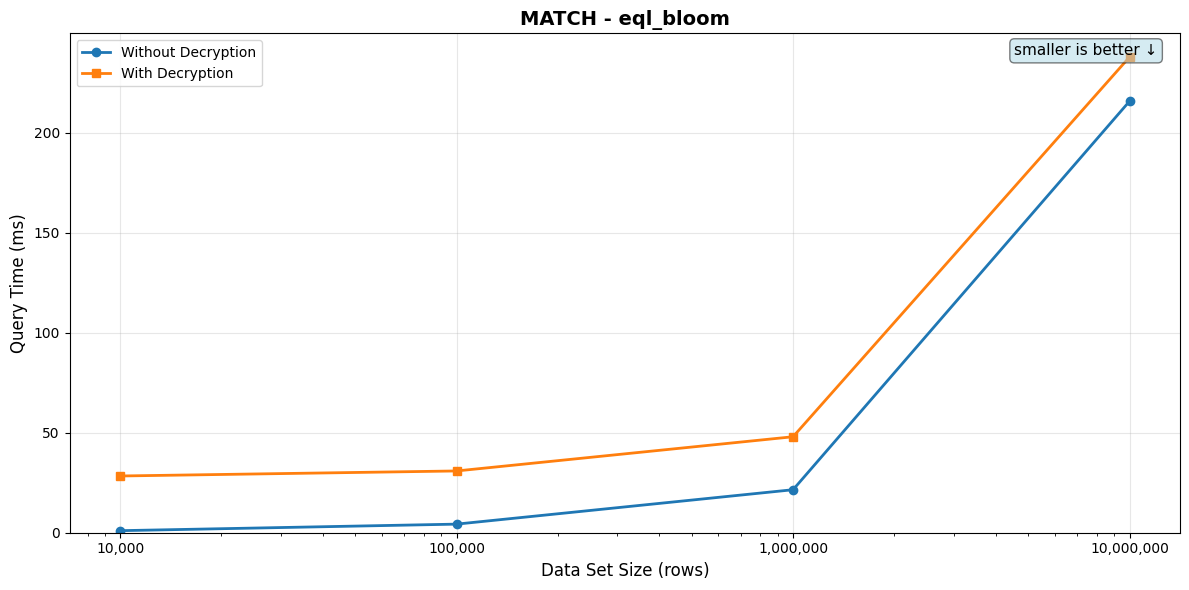
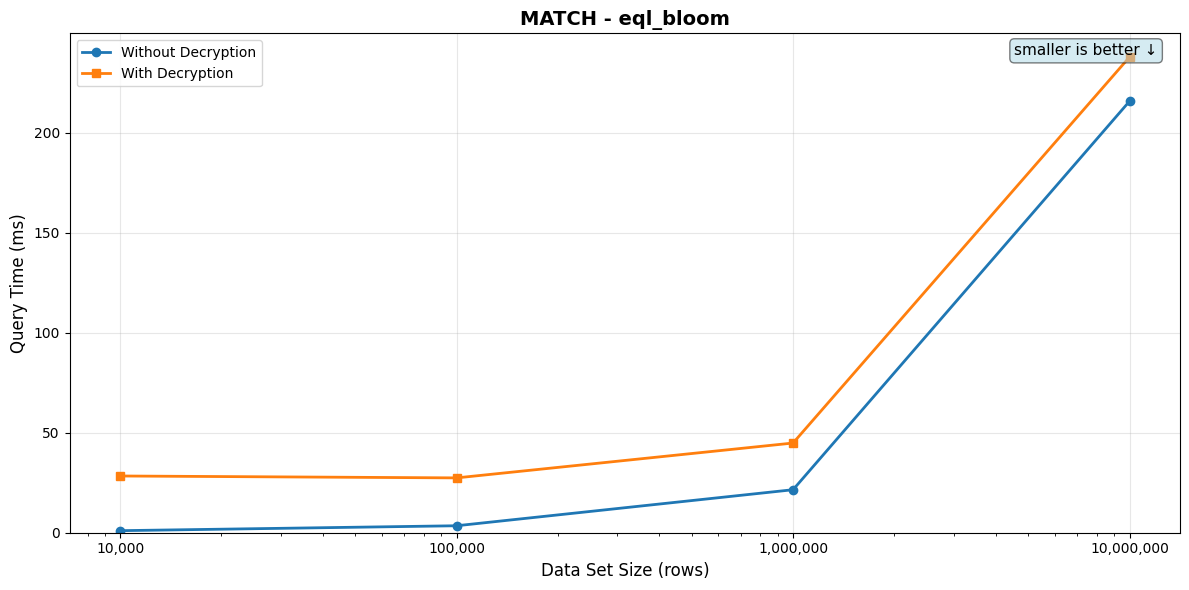
results: refresh MATCH 100k + 1M after verification re-run
Two consecutive runs confirmed the modest ~1.2x slowness on bloom-form
MATCH scenarios (`eql_bloom`, `eql_cast_lastname`) at both 100k and 1M.
`eql_cast_firstname` (short substring, few trigrams) is unaffected.

Pattern fits a cipherstash-client version difference — the bench is
currently pinned to the suite-main branch carrying the
error-visibility fixes (PR #1960) vs main's crates.io 0.34.1-alpha.4.
Should disappear when the fix lands in a published release and we
revert to a crates.io pin.

Refreshed `report/match.md` + the three match chart PNGs against the
post-rerun numbers. Other report sections unchanged (no source data
moved).

diff --git a/report/match.md b/report/match.md
@@ -44,8 +44,8 @@ ON string_encrypted_10000 USING GIN (
 | Data Set Size | Rows Returned | Query Time (no decrypt) | Query Time (with decrypt) |
 |---------------|---------------|-------------------------|---------------------------|
 | 10,000 | 10 | 1.02ms | 28.36ms |
-| 100,000 | 10 | 4.30ms | 30.88ms |
-| 1,000,000 | 10 | 21.50ms | 47.99ms |
+| 100,000 | 10 | 3.48ms | 27.41ms |
+| 1,000,000 | 10 | 21.50ms | 44.84ms |
 | 10,000,000 | 10 | ⚠ 215.72ms | ⚠ 237.82ms |
 
 _Rows Returned is the actual count from a one-shot pre-bench execution. For LIMIT-bounded queries it matches the LIMIT (or is lower when the table doesn't have enough matching rows); for aggregates wrapped in `count(*)` it's 1._
@@ -139,7 +139,7 @@ Full `EXPLAIN (FORMAT JSON)`:
           "Plans": [
             {
               "Async Capable": false,
-              "Index Cond": "((eql_v2.bloom_filter(value))::smallint[] @> '{820,835,702,523,1061,518,290,242,1846,1659,1185,97,1609,1987,1988,450,1098,1381,1967,513,461,1665,543,44,1196,574,765,237,2024,1715}'::smallint[])",
+              "Index Cond": "((eql_v2.bloom_filter(value))::smallint[] @> '{461,518,1659,1988,1098,44,765,574,513,2024,290,450,702,543,1967,1196,1381,1715,1185,97,237,1609,1061,1846,1665,242,820,835,1987,523}'::smallint[])",
               "Index Name": "string_encrypted_100000_gin_index",
               "Node Type": "Bitmap Index Scan",
               "Parallel Aware": false,
@@ -150,7 +150,7 @@ Full `EXPLAIN (FORMAT JSON)`:
               "Total Cost": 458.47
             }
           ],
-          "Recheck Cond": "((eql_v2.bloom_filter(value))::smallint[] @> '{820,835,702,523,1061,518,290,242,1846,1659,1185,97,1609,1987,1988,450,1098,1381,1967,513,461,1665,543,44,1196,574,765,237,2024,1715}'::smallint[])",
+          "Recheck Cond": "((eql_v2.bloom_filter(value))::smallint[] @> '{461,518,1659,1988,1098,44,765,574,513,2024,290,450,702,543,1967,1196,1381,1715,1185,97,237,1609,1061,1846,1665,242,820,835,1987,523}'::smallint[])",
           "Relation Name": "string_encrypted_100000",
           "Startup Cost": 458.48,
           "Total Cost": 462.99
@@ -194,7 +194,7 @@ Full `EXPLAIN (FORMAT JSON)`:
           "Plans": [
             {
               "Async Capable": false,
-              "Index Cond": "((eql_v2.bloom_filter(value))::smallint[] @> '{523,1987,518,1061,450,1715,1846,1659,1609,44,1381,574,97,242,702,290,1967,237,1185,1988,543,1196,765,461,2024,820,513,1098,1665,835}'::smallint[])",
+              "Index Cond": "((eql_v2.bloom_filter(value))::smallint[] @> '{1196,1967,1988,702,2024,1665,1185,290,835,765,461,523,1987,1715,1659,543,518,820,574,1098,450,242,1061,237,1609,97,513,1381,44,1846}'::smallint[])",
               "Index Name": "string_encrypted_1000000_gin_index",
               "Node Type": "Bitmap Index Scan",
               "Parallel Aware": false,
@@ -205,7 +205,7 @@ Full `EXPLAIN (FORMAT JSON)`:
               "Total Cost": 1526.85
             }
           ],
-          "Recheck Cond": "((eql_v2.bloom_filter(value))::smallint[] @> '{523,1987,518,1061,450,1715,1846,1659,1609,44,1381,574,97,242,702,290,1967,237,1185,1988,543,1196,765,461,2024,820,513,1098,1665,835}'::smallint[])",
+          "Recheck Cond": "((eql_v2.bloom_filter(value))::smallint[] @> '{1196,1967,1988,702,2024,1665,1185,290,835,765,461,523,1987,1715,1659,543,518,820,574,1098,450,242,1061,237,1609,97,513,1381,44,1846}'::smallint[])",
           "Relation Name": "string_encrypted_1000000",
           "Startup Cost": 1526.85,
           "Total Cost": 1531.36
@@ -315,8 +315,8 @@ ON string_encrypted_10000 USING GIN (
 | Data Set Size | Rows Returned | Query Time (no decrypt) | Query Time (with decrypt) |
 |---------------|---------------|-------------------------|---------------------------|
 | 10,000 | 10 | 729.02μs | 28.41ms |
-| 100,000 | 10 | 1.10ms | 27.02ms |
-| 1,000,000 | 10 | 4.67ms | 31.79ms |
+| 100,000 | 10 | 1.04ms | 25.62ms |
+| 1,000,000 | 10 | 4.65ms | 28.34ms |
 | 10,000,000 | 10 | 35.48ms | 60.96ms |
 
 _Rows Returned is the actual count from a one-shot pre-bench execution. For LIMIT-bounded queries it matches the LIMIT (or is lower when the table doesn't have enough matching rows); for aggregates wrapped in `count(*)` it's 1._
@@ -410,7 +410,7 @@ Full `EXPLAIN (FORMAT JSON)`:
           "Plans": [
             {
               "Async Capable": false,
-              "Index Cond": "((eql_v2.bloom_filter(value))::smallint[] @> '{1164,36,1555,1789,1603,10}'::smallint[])",
+              "Index Cond": "((eql_v2.bloom_filter(value))::smallint[] @> '{1555,10,36,1603,1164,1789}'::smallint[])",
               "Index Name": "string_encrypted_100000_gin_index",
               "Node Type": "Bitmap Index Scan",
               "Parallel Aware": false,
@@ -421,7 +421,7 @@ Full `EXPLAIN (FORMAT JSON)`:
               "Total Cost": 93.35
             }
           ],
-          "Recheck Cond": "((eql_v2.bloom_filter(value))::smallint[] @> '{1164,36,1555,1789,1603,10}'::smallint[])",
+          "Recheck Cond": "((eql_v2.bloom_filter(value))::smallint[] @> '{1555,10,36,1603,1164,1789}'::smallint[])",
           "Relation Name": "string_encrypted_100000",
           "Startup Cost": 93.35,
           "Total Cost": 97.86
@@ -465,7 +465,7 @@ Full `EXPLAIN (FORMAT JSON)`:
           "Plans": [
             {
               "Async Capable": false,
-              "Index Cond": "((eql_v2.bloom_filter(value))::smallint[] @> '{1789,36,1164,10,1555,1603}'::smallint[])",
+              "Index Cond": "((eql_v2.bloom_filter(value))::smallint[] @> '{36,10,1164,1555,1603,1789}'::smallint[])",
               "Index Name": "string_encrypted_1000000_gin_index",
               "Node Type": "Bitmap Index Scan",
               "Parallel Aware": false,
@@ -476,7 +476,7 @@ Full `EXPLAIN (FORMAT JSON)`:
               "Total Cost": 307.85
             }
           ],
-          "Recheck Cond": "((eql_v2.bloom_filter(value))::smallint[] @> '{1789,36,1164,10,1555,1603}'::smallint[])",
+          "Recheck Cond": "((eql_v2.bloom_filter(value))::smallint[] @> '{36,10,1164,1555,1603,1789}'::smallint[])",
           "Relation Name": "string_encrypted_1000000",
           "Startup Cost": 307.85,
           "Total Cost": 312.36
@@ -588,8 +588,8 @@ ON string_encrypted_10000 USING GIN (
 | Data Set Size | Rows Returned | Query Time (no decrypt) | Query Time (with decrypt) |
 |---------------|---------------|-------------------------|---------------------------|
 | 10,000 | 10 | 1.55ms | 30.64ms |
-| 100,000 | 10 | 3.04ms | 29.65ms |
-| 1,000,000 | 10 | 21.57ms | 46.18ms |
+| 100,000 | 10 | 3.12ms | 27.96ms |
+| 1,000,000 | 10 | 21.38ms | 44.58ms |
 | 10,000,000 | 10 | ⚠ 210.49ms | ⚠ 241.26ms |
 
 _Rows Returned is the actual count from a one-shot pre-bench execution. For LIMIT-bounded queries it matches the LIMIT (or is lower when the table doesn't have enough matching rows); for aggregates wrapped in `count(*)` it's 1._
@@ -683,7 +683,7 @@ Full `EXPLAIN (FORMAT JSON)`:
           "Plans": [
             {
               "Async Capable": false,
-              "Index Cond": "((eql_v2.bloom_filter(value))::smallint[] @> '{1659,513,820,290,1196,237,242,1061,450,543,1665,765,835,1609,1185,1381,461,574,1988,1967,1846,523,97,44,1715,518,1987,2024,1098,702}'::smallint[])",
+              "Index Cond": "((eql_v2.bloom_filter(value))::smallint[] @> '{1185,518,820,835,1987,237,574,1715,702,1988,290,1196,513,242,97,44,1609,461,1381,2024,765,1659,1967,1665,523,1846,450,1098,543,1061}'::smallint[])",
               "Index Name": "string_encrypted_100000_gin_index",
               "Node Type": "Bitmap Index Scan",
               "Parallel Aware": false,
@@ -694,7 +694,7 @@ Full `EXPLAIN (FORMAT JSON)`:
               "Total Cost": 458.47
             }
           ],
-          "Recheck Cond": "((eql_v2.bloom_filter(value))::smallint[] @> '{1659,513,820,290,1196,237,242,1061,450,543,1665,765,835,1609,1185,1381,461,574,1988,1967,1846,523,97,44,1715,518,1987,2024,1098,702}'::smallint[])",
+          "Recheck Cond": "((eql_v2.bloom_filter(value))::smallint[] @> '{1185,518,820,835,1987,237,574,1715,702,1988,290,1196,513,242,97,44,1609,461,1381,2024,765,1659,1967,1665,523,1846,450,1098,543,1061}'::smallint[])",
           "Relation Name": "string_encrypted_100000",
           "Startup Cost": 458.48,
           "Total Cost": 462.99
@@ -738,7 +738,7 @@ Full `EXPLAIN (FORMAT JSON)`:
           "Plans": [
             {
               "Async Capable": false,
-              "Index Cond": "((eql_v2.bloom_filter(value))::smallint[] @> '{1061,1967,702,820,1988,835,523,290,237,1098,1185,1715,574,1665,97,44,1659,450,765,513,1987,242,518,2024,1846,543,1609,1196,1381,461}'::smallint[])",
+              "Index Cond": "((eql_v2.bloom_filter(value))::smallint[] @> '{1987,543,1609,574,765,835,461,1967,513,1665,97,523,1185,1061,450,1846,702,1659,2024,518,1196,1098,242,237,1381,1715,1988,44,820,290}'::smallint[])",
               "Index Name": "string_encrypted_1000000_gin_index",
               "Node Type": "Bitmap Index Scan",
               "Parallel Aware": false,
@@ -749,7 +749,7 @@ Full `EXPLAIN (FORMAT JSON)`:
               "Total Cost": 1526.85
             }
           ],
-          "Recheck Cond": "((eql_v2.bloom_filter(value))::smallint[] @> '{1061,1967,702,820,1988,835,523,290,237,1098,1185,1715,574,1665,97,44,1659,450,765,513,1987,242,518,2024,1846,543,1609,1196,1381,461}'::smallint[])",
+          "Recheck Cond": "((eql_v2.bloom_filter(value))::smallint[] @> '{1987,543,1609,574,765,835,461,1967,513,1665,97,523,1185,1061,450,1846,702,1659,2024,518,1196,1098,242,237,1381,1715,1988,44,820,290}'::smallint[])",
           "Relation Name": "string_encrypted_1000000",
           "Startup Cost": 1526.85,
           "Total Cost": 1531.36
